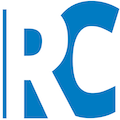
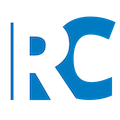
squashed series of misc changes:
removed background from icons
removing p tag css hyphening

diff --git a/_sass/_06_typography.scss b/_sass/_06_typography.scss
@@ -51,10 +51,6 @@ a:active {
 ------------------------------------------------------------------- */
 
 p {
-    -webkit-hyphens: auto;
-    -moz-hyphens: auto;
-    -ms-hyphens: auto;
-    hyphens: auto;
     -ms-word-break: normal;
     /* Non standard for webkit */
     word-break: normal;
